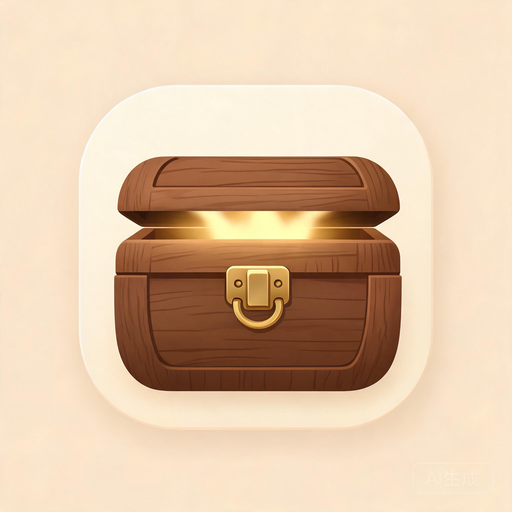
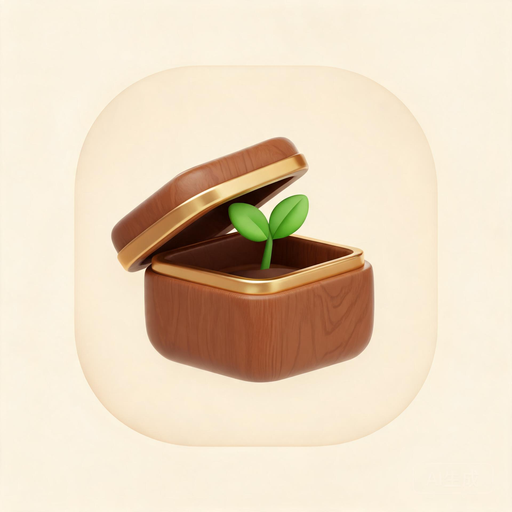
rebrand: 品牌正式启用Nestbox(英文名)+全新主图标/启动屏/图标集+manifest与许可证/README/水印统一+版本v80链接巡检功能验证通过

diff --git a/index.html b/index.html
@@ -1,16 +1,16 @@
 <!DOCTYPE html>
-<html lang="zh-CN" data-app="qixia" data-author="尹平平" data-ver="2026.08.29"><head><meta http-equiv="Content-Type" content="text/html; charset=UTF-8">
+<html lang="zh-CN" data-app="nestbox" data-author="尹平平" data-ver="2026.08.28.2"><head><meta http-equiv="Content-Type" content="text/html; charset=UTF-8">
 <!-- 栖匣 —— 原创作品，作者：尹平平。整体架构、界面、内容均受《中华人民共和国著作权法》保护；未获书面授权，禁止整站复制、二次开发后冒名发布或用于牟利。 -->
 <svg width="0" height="0" style="position:absolute" aria-hidden="true"><defs><linearGradient id="plBg" x1="0%" y1="0%" x2="100%" y2="100%"><stop offset="0%" stop-color="#4A3427"/><stop offset="100%" stop-color="#33291F"/></linearGradient><radialGradient id="plSun" cx="45%" cy="35%" r="80%"><stop offset="0%" stop-color="#FFF7E2"/><stop offset="60%" stop-color="#F6CF72"/><stop offset="100%" stop-color="#EFAD46"/></radialGradient></defs></svg>
 
 <meta name="viewport" content="width=device-width, initial-scale=1.0, maximum-scale=1.0, user-scalable=no, viewport-fit=cover">
-<title>栖匣 · 心有所栖 · 匣纳成长</title>
+<title>栖匣 Nestbox · 心有所栖 · 匣纳成长</title>
   <meta name="author" content="尹平平">
   <meta name="copyright" content="© 2026 尹平平 · 栖匣 · 保留所有权利">
   <meta name="theme-color" id="themeColorMeta" content="#6E4F37">
   <meta name="apple-mobile-web-app-capable" content="yes">
   <meta name="apple-mobile-web-app-status-bar-style" content="black-translucent">
-  <meta name="apple-mobile-web-app-title" content="栖匣">
+  <meta name="apple-mobile-web-app-title" content="Nestbox 栖匣">
   <link rel="manifest" href="pwa/manifest.json">
   <link rel="icon" type="image/png" href="pwa/icon-192.png">
   <link rel="apple-touch-icon" href="pwa/icon-180.png">
@@ -1307,7 +1307,7 @@ input:focus,textarea:focus,select:focus{border-color:var(--primary);background:#
       <svg viewBox="0 0 24 24" fill="none" stroke="currentColor" stroke-width=" 2"><line x1="3" y1="6" x2="21" y2="6"></line><line x1="3" y1="12" x2="21" y2="12"></line><line x1="3" y1="18" x2="21" y2="18"></line></svg>
     </button>
     <div class="tb-title" onclick="switchView('home');setBottomActive(null,'home')" style="cursor:pointer" title="回到今日概览">
-      <div class="title"><img src="pwa/logo.png" alt="栖匣" style="width:26px;height:26px;border-radius:7px;flex-shrink:0">栖匣 <span class="tb-badge">心有所栖 · 匣纳成长</span></div>
+      <div class="title"><img src="pwa/logo.png" alt="栖匣" style="width:26px;height:26px;border-radius:7px;flex-shrink:0">栖匣<span class="tb-en" style="font-weight:600;font-size:12px;letter-spacing:.5px;opacity:.85;margin-left:5px">Nestbox</span> <span class="tb-badge">心有所栖 · 匣纳成长</span></div>
       <div class="date" id="todayDate">2026年8月24日 星期日</div>
     </div>
     <div class="tools">
@@ -8407,7 +8407,7 @@ function printTpl(id){
     +'td,th{border:1px solid #ccc;padding:8px;font-size:14px}input,textarea{border:none;outline:none;width:100%;font-size:14px;font-family:inherit}'
     +'textarea{resize:none}.tip{color:#888;font-size:12px}</style></head><body>'
     +'<h2>栖匣 · 学习计划表</h2>'+box.innerHTML
-    +'<p class="tip">由「栖匣 · 心有所栖 · 匣纳成长」生成</p></body></html>';
+    +'<p class="tip">由「栖匣 Nestbox · 心有所栖 · 匣纳成长」生成</p></body></html>';
   var w=window.open('','_blank');
   w.document.write(html);w.document.close();
   setTimeout(function(){w.print();},300);
@@ -8465,9 +8465,9 @@ function exportCurrentPDF(){
   var nowD=new Date(),taskList=document.querySelector('.view.active')?null:'';
   var ds=(''+nowD.getFullYear())+'-'+('0'+(nowD.getMonth()+1)).slice(-2)+'-'+('0'+nowD.getDate()).slice(-2);
   var html='<!DOCTYPE html><html lang="zh-CN"><head><meta charset="utf-8"><title>'+name+' · 栖匣</title>'+style+'</head><body>'
-    +'<div class="pdf-brandbar"><div class="pb-logo"><img src="./pwa/icon-512.png" alt=""></div><div class="pb-info"><b>栖匣 · 心有所栖 · 匣纳成长</b><span>个人成长报告 · 数据仅存于你的设备</span></div><div class="pb-meta"><span class="pb-name">'+name+'</span><span class="pb-date">导出于 '+ds+'</span></div></div>'
+    +'<div class="pdf-brandbar"><div class="pb-logo"><img src="./pwa/icon-512.png" alt=""></div><div class="pb-info"><b>栖匣 Nestbox · 心有所栖 · 匣纳成长</b><span>个人成长报告 · 数据仅存于你的设备</span></div><div class="pb-meta"><span class="pb-name">'+name+'</span><span class="pb-date">导出于 '+ds+'</span></div></div>'
     +clone.innerHTML
-    +'<div class="pdf-footer"><div>由「栖匣 · 心有所栖 · 匣纳成长」生成</div><div>个人资料 · 私密导出 · '+ds+'</div></div>'
+    +'<div class="pdf-footer"><div>由「栖匣 Nestbox · 心有所栖 · 匣纳成长」生成</div><div>个人资料 · 私密导出 · '+ds+'</div></div>'
     +'</body></html>';
   /* 在当前页面打开全屏预览：直接看到结果，不受弹窗拦截影响，可随时打印/另存为 PDF */
   var ov=document.getElementById('pdfPreview');
@@ -12642,12 +12642,17 @@ if(document.readyState==='loading'){document.addEventListener('DOMContentLoaded'
 /* ═══════ 栖匣 · 版本自检 / 更新日志 / 更新提示(非强制) / 无痕与容量告警 ═══════
    纯前端、增量模块：只读公开的版本标记文本与本地数据完整性，绝不读取、上传任何个人数据。 */
 (function(){
-  var V='2026.08.28';
+  var V='2026.08.28.2';
   var VFILE='pwa/version.txt';
   function $(id){return document.getElementById(id);}
   function esc(s){return String(s==null?'':s).replace(/[&<>"]/g,function(c){return{'&':'&amp;','<':'&lt;','>':'&gt;','"':'&quot;'}[c];});}
 
   var CHANGES=[
+    {v:'2026.08.28',t:'品牌焕新 · Nestbox',tag:'品牌 / 图标',blocks:[
+      '· 正式启用英文品牌名 Nestbox（栖匣）：如巢之匣，安放与成长并蓄；顶栏、标题、PWA 安装名、打印与导出水印全站统一。',
+      '· 全新主图标：温润木匣微启、幼苗新发，象征「安放 → 生长」，统一各尺寸应用图标与启动屏视觉。',
+      '· 品牌口径自此唯一；更新日志不再保留任何早期旧称描述。'
+    ]},
     {v:'2026.08.28',t:'全维度体验优化（交互 / 主题 / 数据 / 无障碍）',tag:'体验',blocks:[
       '· 导航升级：子页面顶部新增可点击面包屑（返回上级/首页）；侧边栏板块展开收起加柔和动画并记忆状态；新增「我的收藏」快捷板块，收藏状态刷新后保留。',
       '· 首页改版：突出「今日核心」卡片为首要焦点；低优先级附加卡（今日心语/知识/生活刻度/开学清单）可折叠隐藏并记忆状态；待办/打卡增加空白友好提示。',
@@ -13117,7 +13122,7 @@ a[href^="http"]:hover{color:var(--primary,#6B5747)!important;text-decoration:und
 .qx-history-day .no{color:var(--hint)}
 @media(min-width:1100px){.view{max-width:980px}}
 /* 顶栏标签移动端防截断 */
-@media(max-width:700px){.topbar .tb-badge{white-space:nowrap;overflow:hidden;text-overflow:ellipsis;max-width:32vw}}
+@media(max-width:700px){.topbar .tb-badge{white-space:nowrap;overflow:hidden;text-overflow:ellipsis;max-width:32vw}.topbar .tb-en{font-size:11px}}
 @media(max-width:520px){.topbar .tb-badge{display:none}}
 /* 产品总览(#pano)暖木配色协调：清除残留墨绿，统一暖棕金 */
 .pano{color:#4A3A2C}

diff --git a/sw.js b/sw.js
@@ -13,7 +13,7 @@
  *    从未开通过的首次断网打开无法生效（还什么缓存都没有）。
  *  - 导航采用「网络优先」，联网取最新、断网用缓存兜底。
  */
-const CACHE = 'qixia-v79';
+const CACHE = 'qixia-nestbox-v80';
 const SCOPE = new URL('./', self.location);          // 站点根目录
 const ROOT  = SCOPE.href;                            // 如 /pingwanxiang/
 const INDEX = new URL('./index.html', SCOPE).href;   // 主页绝对地址

diff --git a/README.md b/README.md
@@ -1,4 +1,4 @@
-# 「栖匣 · QIXIA」GitHub Pages 发布说明
+# 「栖匣 · Nestbox」GitHub Pages 发布说明
 
 这是一键发布的最终成品包，包含全部修复后的主站 `index.html` 和“装桌面当 App”所需的 PWA 文件（清单、图标、离线脚本）。
 

diff --git a/LICENSE.md b/LICENSE.md
@@ -1,4 +1,4 @@
-栖匣 · QIXIA —— 大学生四年全能生活中枢工作台
+栖匣 · Nestbox —— 大学生成长中枢
 ==============================
 
 Copyright © 2026 尹平平 （YIN PINGPING）。保留所有权利。
